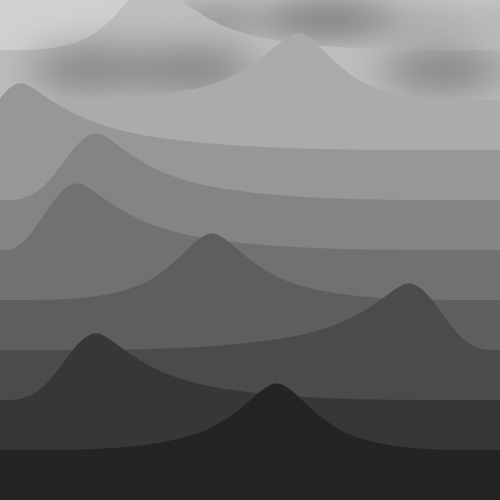
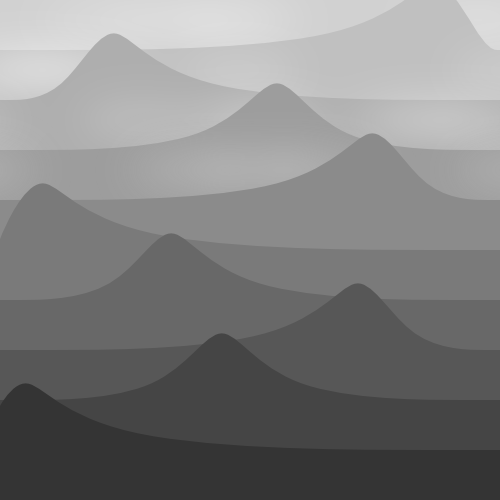
Clouds are white

diff --git a/_posts/2015-01-26-mountains.html b/_posts/2015-01-26-mountains.html
@@ -16,11 +16,10 @@ var filter = svg.append("filter")
     .attr("x", -100)
     .attr("y", -100)
     .attr("width", width + 200)
-    .attr("height", 200)
+    .attr("height", 300)
     .attr("filterUnits", "userSpaceOnUse")
     .append("feGaussianBlur")
-    .attr("stdDeviation", 20)
-    .attr("in", "SourceAlpha");
+    .attr("stdDeviation", 20);
 
 var data = d3.range(rows).map(function() {
     var x = Math.random() * width;
@@ -33,7 +32,7 @@ var area = d3.svg.area()
 
 var scale = d3.scale.linear()
     .domain([0, rows])
-    .range(["#d1d1d1", "#111"]);
+    .range(["#d1d1d1", "#222"]);
 
 var groups = svg.selectAll("g")
     .data(data)
@@ -46,7 +45,9 @@ groups.append("path")
     .attr("fill", function(d, i) { return scale(i); })
     .attr("d", area);
 
-var circles = groups.append("g")
+var circles = groups
+    .filter(function(d, i) { return i != rows - 1; })
+    .append("g")
     .attr("filter", "url(#blur)")
     .selectAll("circle")
     .data(function(d, i) {
@@ -61,14 +62,14 @@ var circles = groups.append("g")
     .attr("cy", 20)
     .attr("ry", 20)
     .attr("rx", 60)
-    .attr("fill", function(d) {
-        return scale(d.i);
+    .style("fill", function(d) {
+        return scale(d.i - 5);
     })
     .attr("fill-opacity", 0.2);
 
 d3.timer(function() {
-    circles.each(function(d) {
-        d.x += d.i / 3;
+    circles.each(function(d, i) {
+        d.x += d.i / 3 + Math.min(i / 2, 1);
         if (d.x > width + 100) d.x = -100;
     });
     circles.attr("cx", function(d) { return d.x; })
